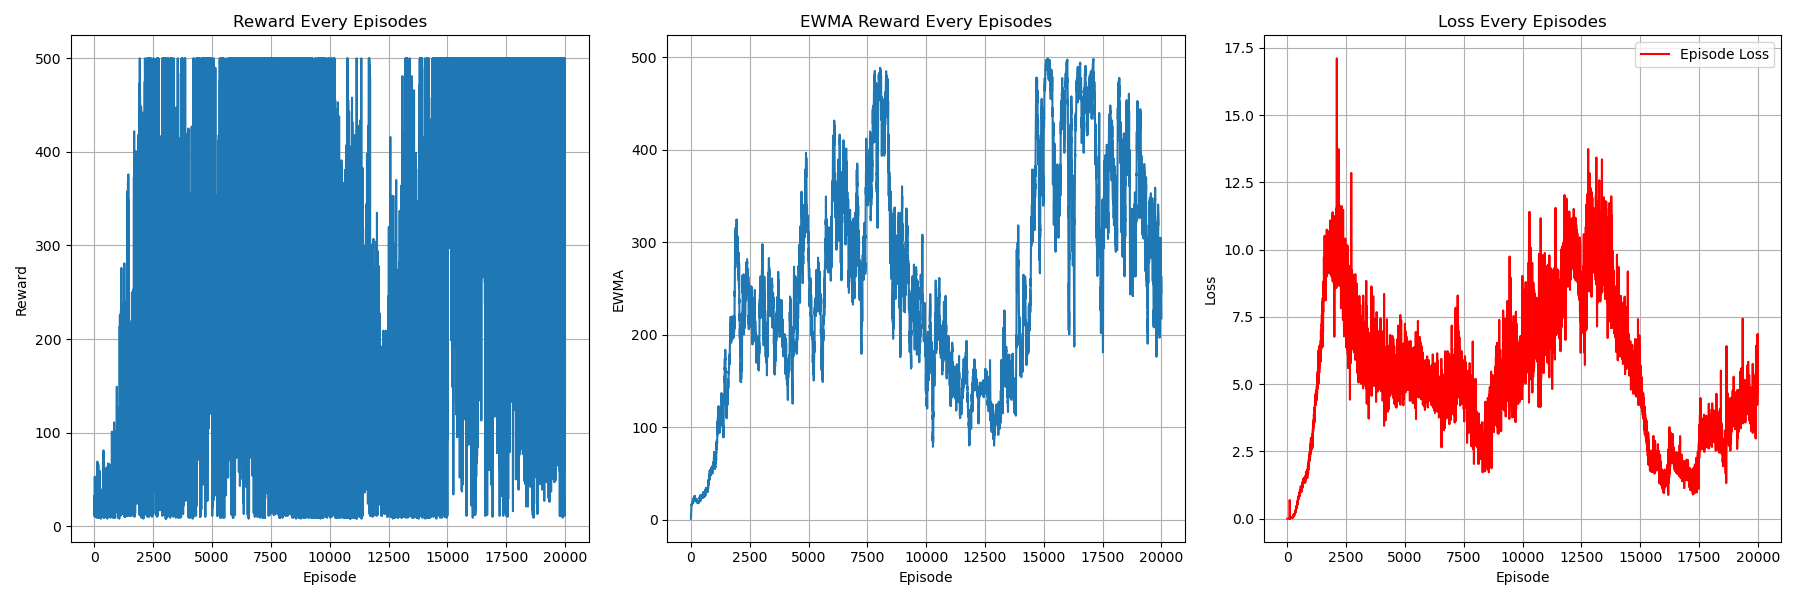
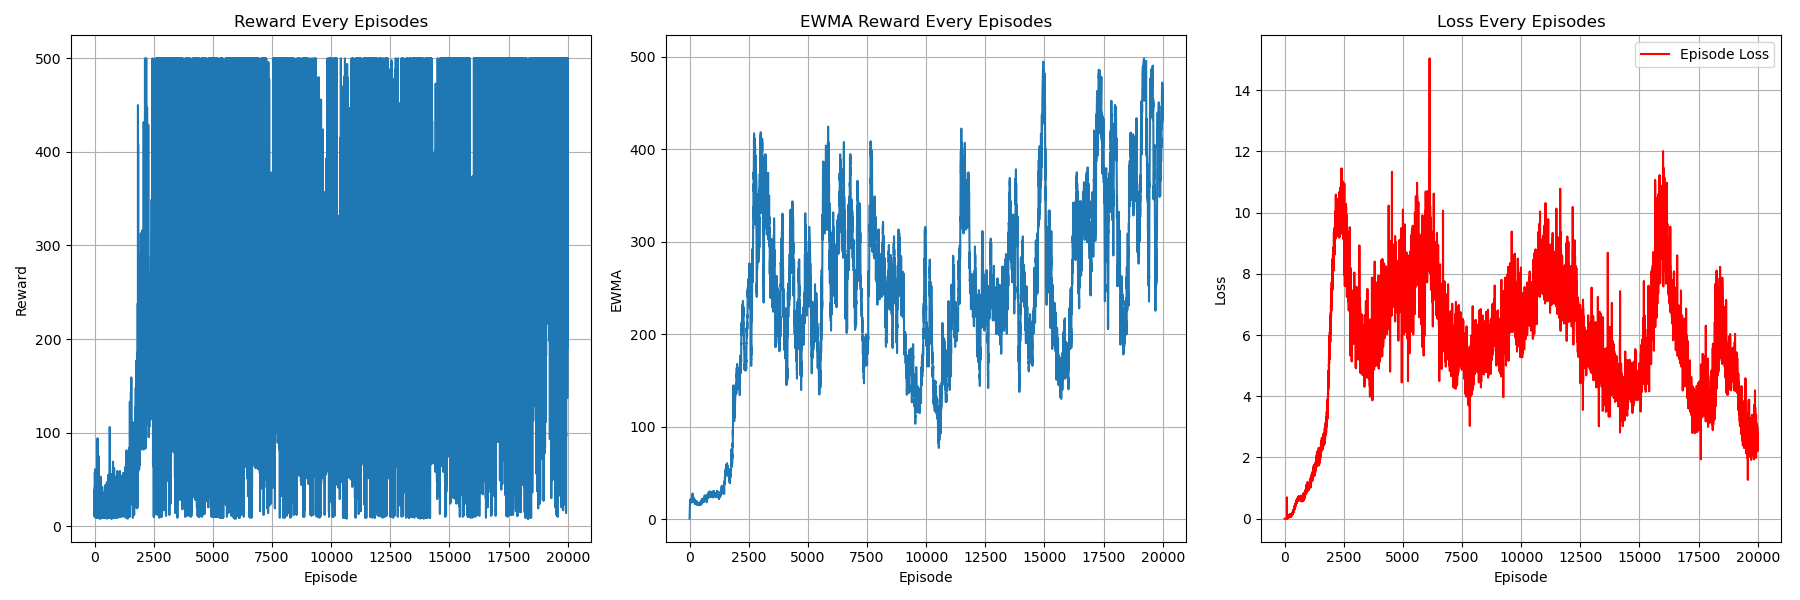
fix drqn and add package

diff --git a/DRQN/drqn.py b/DRQN/drqn.py
@@ -53,12 +53,12 @@ class LSTMCritic(nn.Module):
             nn.Linear(num_inputs, hidden_size),
             nn.ReLU()
         )
-        self.layers2 = nn.Sequential(
-            nn.Linear(self.lstmHidden_size, hidden_size),
-            nn.ReLU()
-        )
+        #self.layers2 = nn.Sequential(
+        #    nn.Linear(self.lstmHidden_size, hidden_size),
+        #    nn.ReLU()
+        #)
         self.layers3 = nn.Sequential(
-            nn.Linear(hidden_size, num_outputs)
+            nn.Linear(self.lstmHidden_size, num_outputs)
         )
         self.lstm=nn.LSTM(hidden_size,self.lstmHidden_size, batch_first=True)
     
